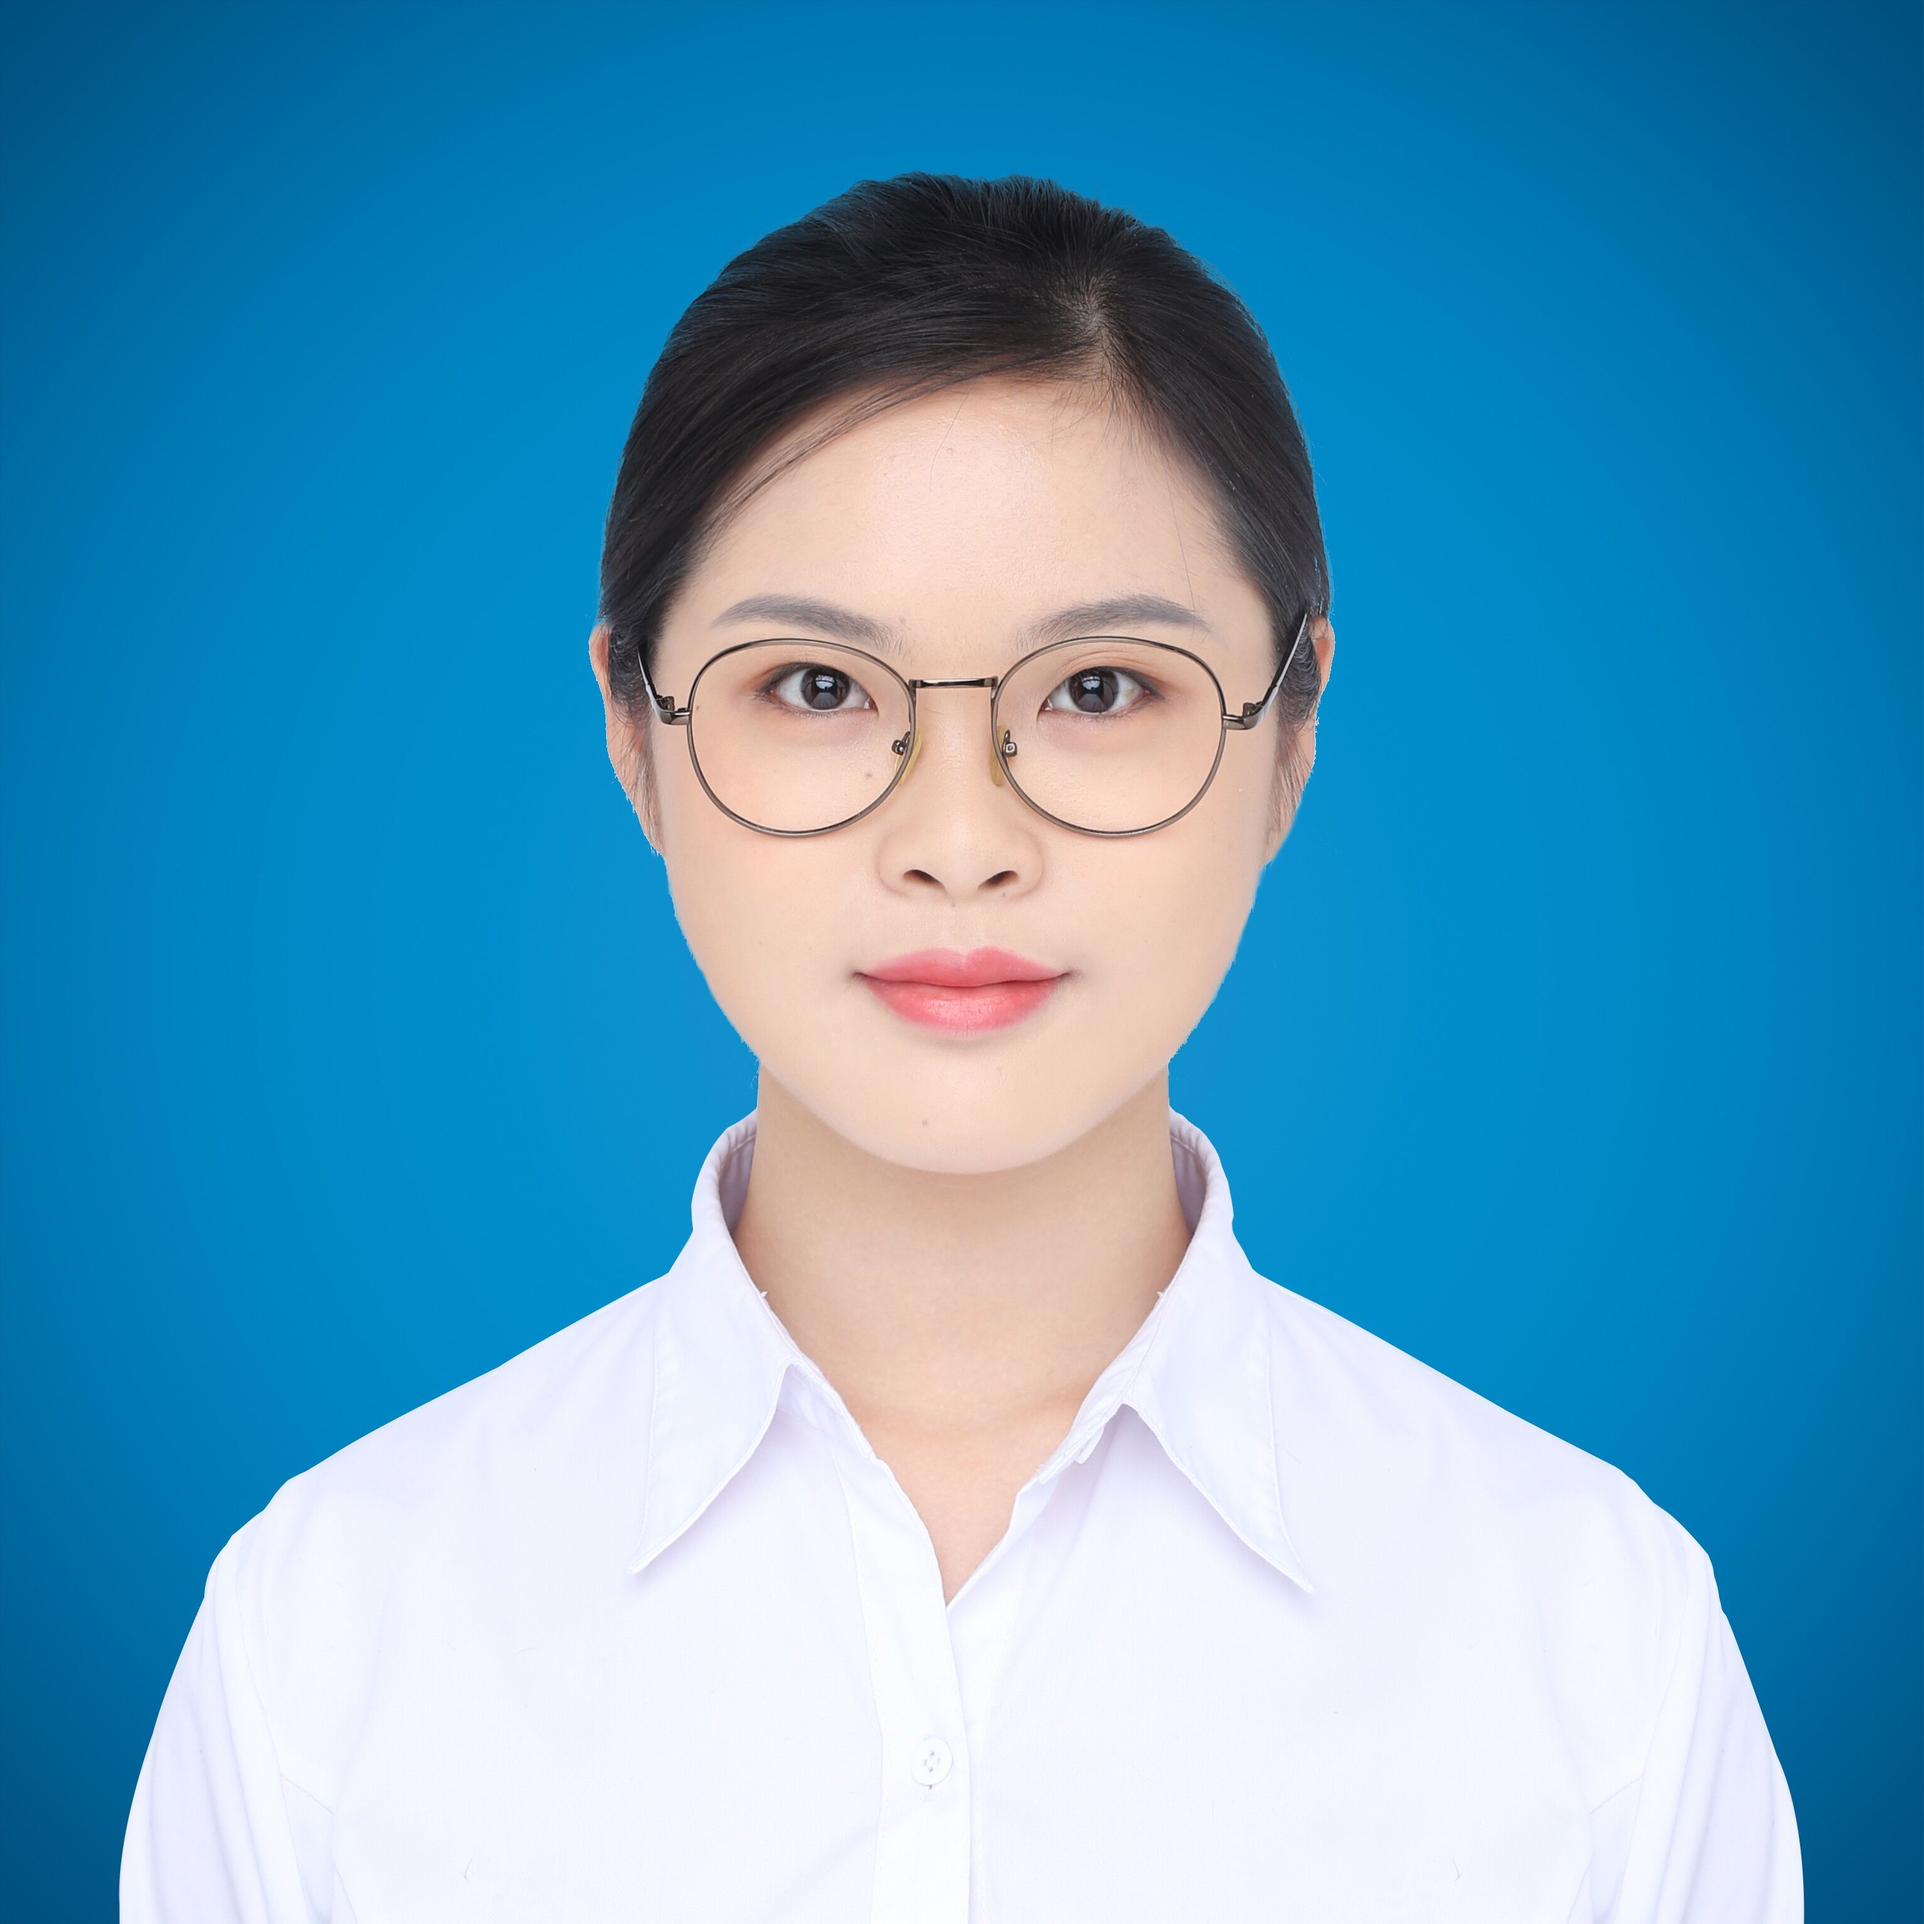
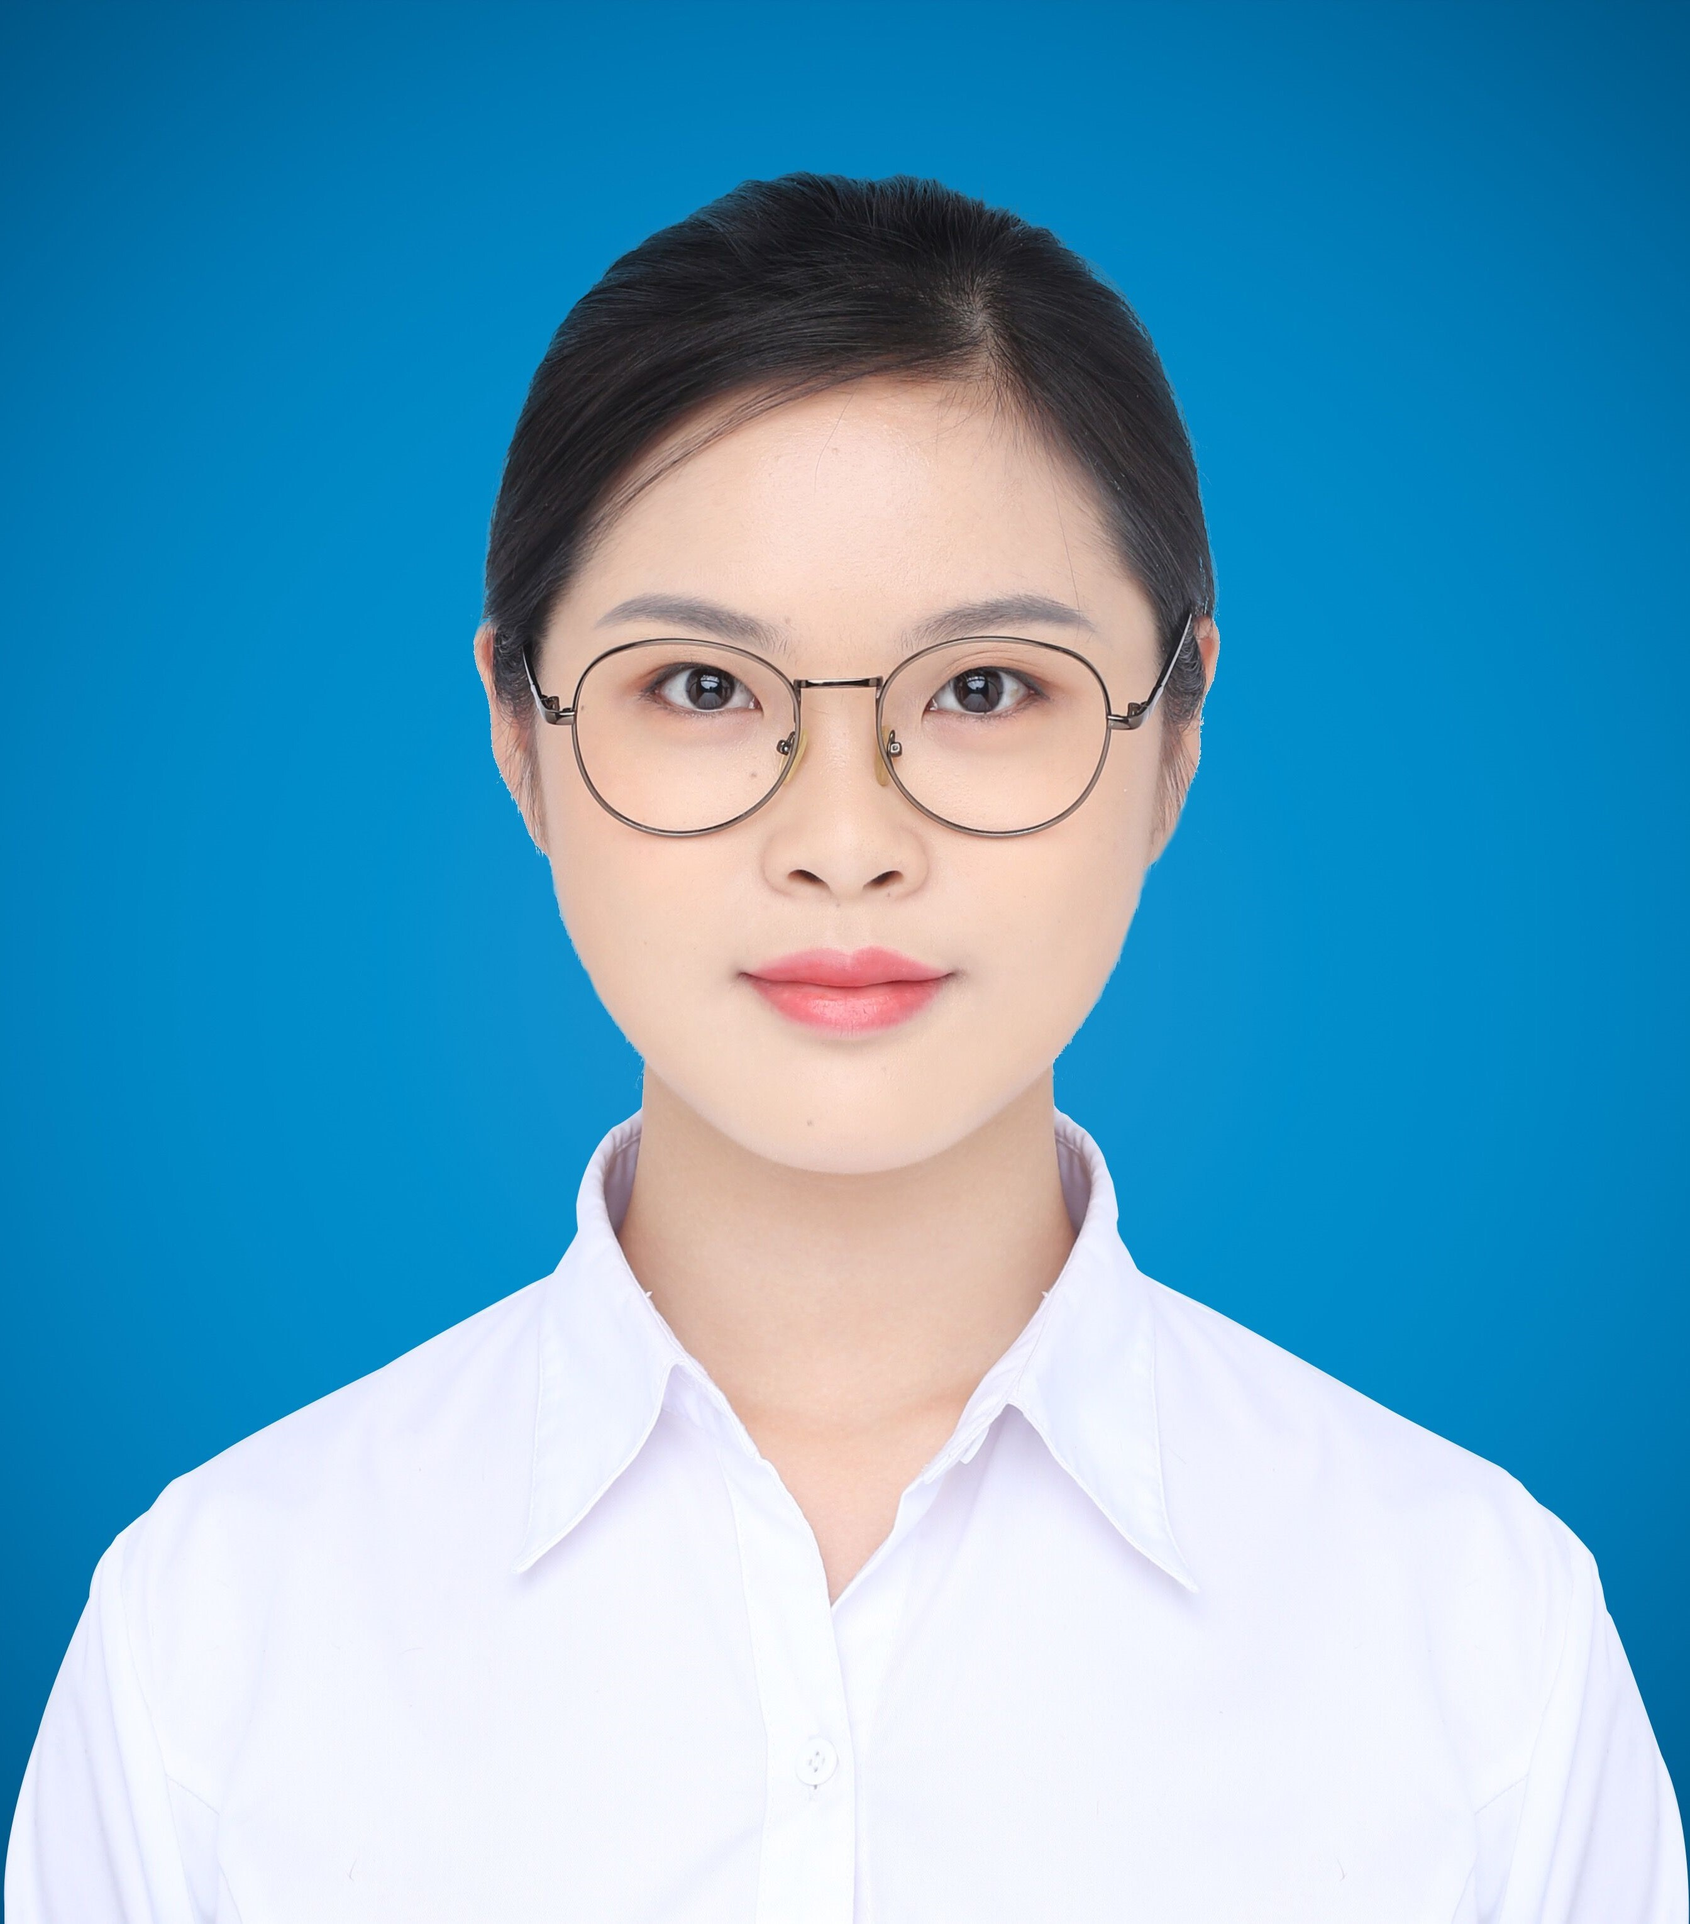
1

diff --git a/resources/PersonalInformation/photos/resize.py b/resources/PersonalInformation/photos/resize.py
@@ -11,8 +11,14 @@ import glob
 
 import time
 import xml.etree.ElementTree as ET
-ImageFile.LOAD_TRUNCATED_IMAGES = True
+
 
 imagepath="D:/github desktop/FakeRoy.github.io/resources/PersonalInformation/photos/"
 imgsavepath="D:/github desktop/FakeRoy.github.io/resources/PersonalInformation/photos/resized/"
 
+for name in os.listdir(imagepath):
+    if(name.split(".")[-1]=="jpg"):
+        print(name)
+        img=Image.open(imagepath+name)
+        out=img.resize((84,127))
+        out.save(imgsavepath+name)
